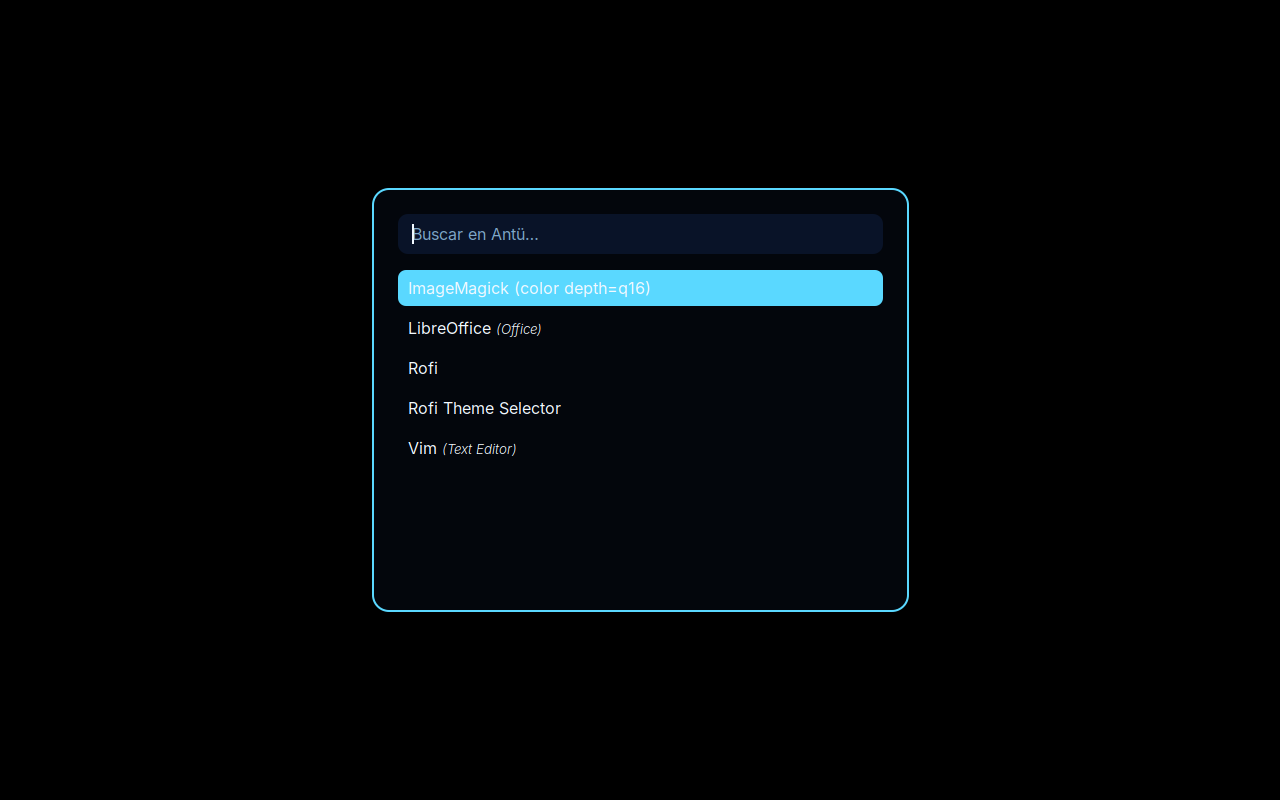
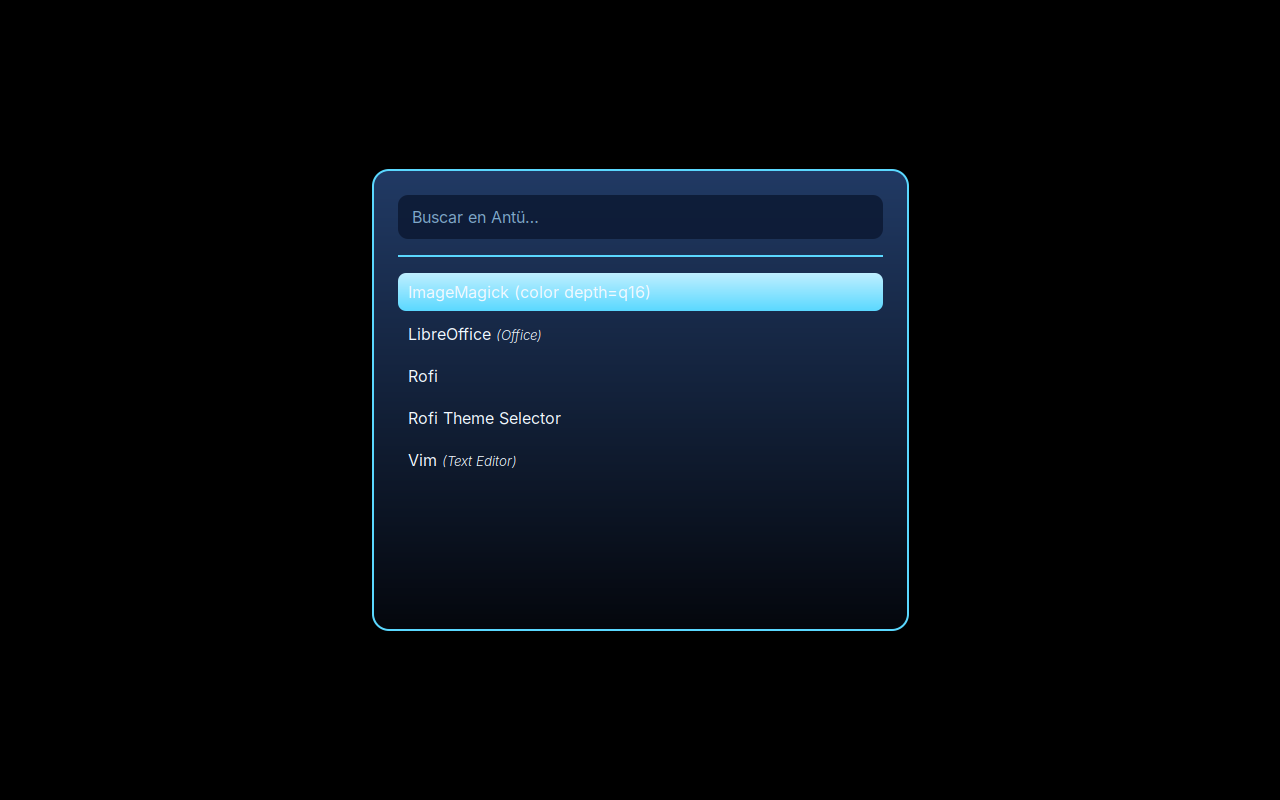
Darle profundidad/relieve al Lanzador de Antü (se veía rudimentario)
Juan lo vio muy plano y pidió algo con más "onda": profundidad, relieve,
algo más familiar (como resuelve Windows este tipo de ventanas). Se
mantiene la identidad visual de Antü pero se agrega:

- Degradé de fondo (más claro arriba, más oscuro abajo) en vez de un
  relleno plano.
- Línea divisoria fina entre el buscador y la lista.
- El ítem seleccionado ahora tiene su propio degradé, efecto "botón con
  relieve" clásico.

Validado de nuevo con Xvfb en cada iteración, lo que hizo aparecer 2
límites reales de esta versión de rofi que no eran evidentes de antemano:
`linear-gradient()` no acepta variables `@nombre` como color (hay que
poner el valor hex literal), y `border-color` no admite un color
distinto por lado (se había probado un bisel de dos tonos, no funciona
en esta versión). También se corrigió un separador que por faltarle
`expand: false` se inflaba y ocupaba toda la ventana.

Claude-Session: https://claude.ai/code/session_01X9oy5r5xsPBJybrv3JDsCb

Changed region(s): [[0.2812, 0.1875, 0.7188, 0.6562], [0.6875, 0.75, 0.7188, 0.7812], [0.2812, 0.75, 0.3125, 0.7812]]

diff --git a/docs/ARCHITECTURE.md b/docs/ARCHITECTURE.md
@@ -127,12 +127,26 @@ escribís y filtra al toque, sin scrollear menús.
 A diferencia del resto del shell, esta pieza **sí se pudo probar
 visualmente de verdad**: se armó una pantalla virtual (`Xvfb`) en el
 entorno de desarrollo, se abrió el lanzador contra esa pantalla y se sacó
-una captura real. Esto hizo aparecer dos bugs reales que ya se corrigieron:
-el nombre técnico del modo ("drun") se colaba pegado al texto de búsqueda,
-y sin especificar una fuente el tema usaba la tipografía monoespaciada por
-defecto de rofi (daba un aire a terminal/DOS de los 90, nada que ver con
-la identidad de Antü) — ahora usa **Inter** (`fonts-inter`, agregado a
-`package-lists`).
+una captura real en cada iteración. Eso hizo aparecer varios bugs reales,
+ya corregidos:
+
+- El nombre técnico del modo ("drun") se colaba pegado al texto de
+  búsqueda.
+- Sin especificar una fuente, el tema usaba la tipografía monoespaciada
+  por defecto de rofi (daba un aire a terminal/DOS de los 90) — ahora usa
+  **Inter** (`fonts-inter`, agregado a `package-lists`).
+- La primera versión se veía plana/rudimentaria. Se le agregó
+  profundidad real: un degradé de fondo (más claro arriba, más oscuro
+  abajo) y el ítem seleccionado con su propio degradé tipo "botón con
+  relieve" — una referencia directa a cómo Windows viene resolviendo esto
+  desde siempre, para que se sienta familiar.
+- Al armar el degradé aparecieron 2 límites reales de esta versión de
+  rofi (1.7.5), no evidentes sin probar: `linear-gradient()` no acepta
+  variables `@nombre` como color (hay que poner el hex literal), y
+  `border-color` no admite un color distinto por lado (no se pudo hacer
+  el bisel de dos tonos que se había probado primero). También un
+  separador visual se infló y ocupó toda la ventana por faltarle
+  `expand: false` — quedó como una línea fina de 1px.
 
 ![Lanzador de Antü](screenshots/antu-launcher.png)
 
